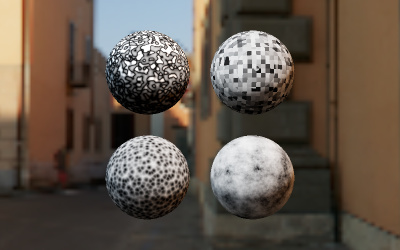
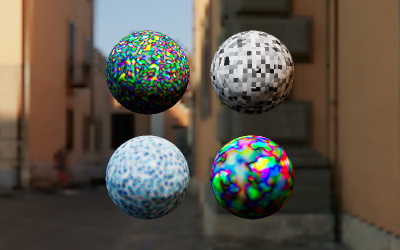
ShaderNode: MaterialX Procedural functions and overloading support (#24699)
* move lib to parent folder

* Added overloading support

* Added convert()

* Added MaterialX Procedural functions

* update example

Changed region(s): [[0.51, 0.532, 0.75, 0.896], [0.24, 0.532, 0.48, 0.868], [0.24, 0.112, 0.48, 0.42]]

diff --git a/examples/jsm/nodes/materialx/MaterialXNodes.js b/examples/jsm/nodes/materialx/MaterialXNodes.js
@@ -1,0 +1,55 @@
+import {
+	mx_perlin_noise_float, mx_perlin_noise_vec2, mx_perlin_noise_vec3,
+	mx_worley_noise_float as worley_noise_float, mx_worley_noise_vec2 as worley_noise_vec2, mx_worley_noise_vec3 as worley_noise_vec3,
+	mx_cell_noise_float as cell_noise_float,
+	mx_fractal_noise_float as fractal_noise_float, mx_fractal_noise_vec2 as fractal_noise_vec2, mx_fractal_noise_vec3 as fractal_noise_vec3, mx_fractal_noise_vec4 as fractal_noise_vec4
+} from './lib/mx_noise.js';
+import { mx_hsvtorgb, mx_rgbtohsv } from './lib/mx_hsv.js';
+import { nodeObject, float, vec2, vec4, add, sub, mul, mix, clamp, uv, length, smoothstep, dFdx, dFdy, convert } from '../shadernode/ShaderNodeElements.js';
+
+export const mx_aastep = ( threshold, value ) => {
+
+	threshold = float( threshold );
+	value = float( value );
+
+	const afwidth = mul( length( vec2( dFdx( value ), dFdy( value ) ) ), 0.70710678118654757 );
+
+	return smoothstep( sub( threshold, afwidth ), add( threshold, afwidth ), value );
+
+};
+
+const _ramp = ( a, b, uv, p ) => mix( a, b, clamp( nodeObject( uv )[ p ] ) );
+export const mx_ramplr = ( valuel, valuer, texcoord = uv() ) => _ramp( valuel, valuer, texcoord, 'x' );
+export const mx_ramptb = ( valuet, valueb, texcoord = uv() ) => _ramp( valuet, valueb, texcoord, 'y' );
+
+const _split = ( a, b, center, uv, p ) => mix( a, b, mx_aastep( center, nodeObject( uv )[ p ] ) );
+export const mx_splitlr = ( valuel, valuer, center, texcoord = uv() ) => _split( valuel, valuer, center, texcoord, 'x' );
+export const mx_splittb = ( valuet, valueb, center, texcoord = uv() ) => _split( valuet, valueb, center, texcoord, 'y' );
+
+export const mx_transform_uv = ( uv_scale = 1, uv_offset = 0, uv_geo = uv() ) => add( mul( uv_geo, uv_scale ), uv_offset );
+
+export const mx_noise_float = ( texcoord = uv(), amplitude = 1, pivot = 0 ) => add( mul( amplitude, mx_perlin_noise_float( convert( texcoord, 'vec2|vec3' ) ) ), pivot );
+export const mx_noise_vec2 = ( texcoord = uv(), amplitude = 1, pivot = 0 ) => add( mul( amplitude, mx_perlin_noise_vec2( convert( texcoord, 'vec2|vec3' ) ) ), pivot );
+export const mx_noise_vec3 = ( texcoord = uv(), amplitude = 1, pivot = 0 ) => add( mul( amplitude, mx_perlin_noise_vec3( convert( texcoord, 'vec2|vec3' ) ) ), pivot );
+export const mx_noise_vec4 = ( texcoord = uv(), amplitude = 1, pivot = 0 ) => {
+
+	texcoord = convert( texcoord, 'vec2|vec3' ); // overloading type
+
+	const noise_vec4 = vec4( mx_perlin_noise_vec3( texcoord ), mx_perlin_noise_float( add( texcoord, vec2( 19, 73 ) ) ) );
+
+	return add( mul( amplitude, noise_vec4 ), pivot );
+
+};
+
+export const mx_worley_noise_float = ( texcoord = uv(), jitter = 1 ) => worley_noise_float( convert( texcoord, 'vec2|vec3' ), jitter, 1 );
+export const mx_worley_noise_vec2 = ( texcoord = uv(), jitter = 1 ) => worley_noise_vec2( convert( texcoord, 'vec2|vec3' ), jitter, 1 );
+export const mx_worley_noise_vec3 = ( texcoord = uv(), jitter = 1 ) => worley_noise_vec3( convert( texcoord, 'vec2|vec3' ), jitter, 1 );
+
+export const mx_cell_noise_float = ( texcoord = uv() ) => cell_noise_float( convert( texcoord, 'vec2|vec3' ) );
+
+export const mx_fractal_noise_float = ( position = uv(), octaves = 3, lacunarity = 2, diminish = .5, amplitude = 1 ) => mul( fractal_noise_float( position, octaves, lacunarity, diminish ), amplitude );
+export const mx_fractal_noise_vec2 = ( position = uv(), octaves = 3, lacunarity = 2, diminish = .5, amplitude = 1 ) => mul( fractal_noise_vec2( position, octaves, lacunarity, diminish ), amplitude );
+export const mx_fractal_noise_vec3 = ( position = uv(), octaves = 3, lacunarity = 2, diminish = .5, amplitude = 1 ) => mul( fractal_noise_vec3( position, octaves, lacunarity, diminish ), amplitude );
+export const mx_fractal_noise_vec4 = ( position = uv(), octaves = 3, lacunarity = 2, diminish = .5, amplitude = 1 ) => mul( fractal_noise_vec4( position, octaves, lacunarity, diminish ), amplitude );
+
+export { mx_hsvtorgb, mx_rgbtohsv };

diff --git a/examples/jsm/nodes/materialx/lib/mx_noise.js b/examples/jsm/nodes/materialx/lib/mx_noise.js
@@ -1,4 +1,4 @@
-import { code, fn } from '../../../Nodes.js';
+import { code, fn } from '../../Nodes.js';
 
 // Original shader code from:
 // https://github.com/AcademySoftwareFoundation/MaterialX/blob/main/libraries/stdlib/genglsl/lib/mx_noise.glsl
@@ -601,7 +601,17 @@ vec3 mx_worley_noise_vec3(vec3 p, float jitter, int metric)
 
 const includes = [ mx_noise ];
 
-export const mx_perlin_noise_float = fn( 'float mx_perlin_noise_float( vec3 p )', includes );
+export const mx_perlin_noise_float = fn( 'float mx_perlin_noise_float( any p )', includes );
+export const mx_perlin_noise_vec2 = fn( 'vec2 mx_perlin_noise_vec2( any p )', includes );
+export const mx_perlin_noise_vec3 = fn( 'vec3 mx_perlin_noise_vec3( any p )', includes );
+
 export const mx_cell_noise_float = fn( 'float mx_cell_noise_float( vec3 p )', includes );
-export const mx_worley_noise_float = fn( 'float mx_worley_noise_float( vec3 p, float jitter, int metric )', includes );
+
+export const mx_worley_noise_float = fn( 'float mx_worley_noise_float( any p, float jitter, int metric )', includes );
+export const mx_worley_noise_vec2 = fn( 'float mx_worley_noise_vec2( any p, float jitter, int metric )', includes );
+export const mx_worley_noise_vec3 = fn( 'float mx_worley_noise_vec3( any p, float jitter, int metric )', includes );
+
 export const mx_fractal_noise_float = fn( 'float mx_fractal_noise_float( vec3 p, int octaves, float lacunarity, float diminish )', includes );
+export const mx_fractal_noise_vec2 = fn( 'float mx_fractal_noise_vec2( vec3 p, int octaves, float lacunarity, float diminish )', includes );
+export const mx_fractal_noise_vec3 = fn( 'float mx_fractal_noise_vec3( vec3 p, int octaves, float lacunarity, float diminish )', includes );
+export const mx_fractal_noise_vec4 = fn( 'float mx_fractal_noise_vec4( vec3 p, int octaves, float lacunarity, float diminish )', includes );

diff --git a/examples/webgl_nodes_materialx_noise.html b/examples/webgl_nodes_materialx_noise.html
@@ -28,14 +28,7 @@
 		<script type="module">
 
 			import * as THREE from 'three';
-			import { MeshPhysicalNodeMaterial, add, mul, normalWorld, clamp, timerLocal } from 'three/nodes';
-
-			import {
-				mx_perlin_noise_float,
-				mx_cell_noise_float,
-				mx_worley_noise_float,
-				mx_fractal_noise_float
-			} from 'three/addons/nodes/materialx/functions/lib/mx_noise.js';
+			import { MeshPhysicalNodeMaterial, add, mul, normalWorld, timerLocal, mx_noise_vec3, mx_worley_noise_vec3, mx_cell_noise_float, mx_fractal_noise_vec3 } from 'three/nodes';
 
 			import { nodeFrame } from 'three/addons/renderers/webgl/nodes/WebGLNodes.js';
 
@@ -80,7 +73,7 @@
 							// left top
 
 							let material = new MeshPhysicalNodeMaterial();
-							material.colorNode = mx_perlin_noise_float( customUV );
+							material.colorNode = mx_noise_vec3( customUV );
 
 							let mesh = new THREE.Mesh( geometry, material );
 							mesh.position.x = - 100;
@@ -100,7 +93,7 @@
 							// left bottom
 
 							material = new MeshPhysicalNodeMaterial();
-							material.colorNode = mx_worley_noise_float( customUV, 1, 1 );
+							material.colorNode = mx_worley_noise_vec3( customUV );
 
 							mesh = new THREE.Mesh( geometry, material );
 							mesh.position.x = - 100;
@@ -110,7 +103,7 @@
 							// right bottom
 
 							material = new MeshPhysicalNodeMaterial();
-							material.colorNode = clamp( mul( add( mx_fractal_noise_float( mul( customUV, .2 ), 7, 2, .7 ), 1 ), .5 ) );
+							material.colorNode = mx_fractal_noise_vec3( mul( customUV, .2 ) );
 
 							mesh = new THREE.Mesh( geometry, material );
 							mesh.position.x = 100;

diff --git a/examples/jsm/nodes/utils/ConvertNode.js b/examples/jsm/nodes/utils/ConvertNode.js
@@ -11,31 +11,32 @@ class ConvertNode extends Node {
 
 	}
 
-	getNodeType( /*builder*/ ) {
+	getNodeType( builder ) {
 
-		return this.convertTo;
+		const requestType = this.node.getNodeType( builder );
+
+		let convertTo = null;
+
+		for ( const overloadingType of this.convertTo.split( '|' ) ) {
+
+			if ( convertTo === null || builder.getTypeLength( requestType ) === builder.getTypeLength( overloadingType ) ) {
+
+				convertTo = overloadingType;
+
+			}
+
+		}
+
+		return convertTo;
 
 	}
 
 	generate( builder, output ) {
 
-		const convertTo = this.convertTo;
 		const node = this.node;
 		const type = this.getNodeType( builder );
 
-		let snippet = null;
-
-		if ( builder.isReference( convertTo ) === false ) {
-
-			const nodeSnippet = node.build( builder, convertTo );
-
-			snippet = builder.format( nodeSnippet, type, convertTo );
-
-		} else {
-
-			snippet = node.build( builder, convertTo );
-
-		}
+		const snippet = node.build( builder, type );
 
 		return builder.format( snippet, type, output );
 

diff --git a/examples/jsm/nodes/shadernode/ShaderNodeBaseElements.js b/examples/jsm/nodes/shadernode/ShaderNodeBaseElements.js
@@ -116,6 +116,8 @@ export const fn = ( code, includes ) => func( code, includes ).call;
 export const attribute = ( name, nodeType ) => nodeObject( new AttributeNode( name, nodeType ) );
 export const property = ( name, nodeOrType ) => nodeObject( new PropertyNode( name, getConstNodeType( nodeOrType ) ) );
 
+export const convert = ( node, types ) => nodeObject( new ConvertNode( nodeObject( node ), types ) );
+
 export const bypass = nodeProxy( BypassNode );
 export const code = nodeProxy( CodeNode );
 export const context = nodeProxy( ContextNode );

diff --git a/examples/jsm/nodes/Nodes.js b/examples/jsm/nodes/Nodes.js
@@ -114,6 +114,9 @@ export * from './materials/Materials.js';
 // shader node
 export * from './shadernode/ShaderNodeElements.js';
 
+// extensions
+export * from './materialx/MaterialXNodes.js';
+
 // shader stages
 export { defaultShaderStages } from './core/NodeBuilder.js';
 

diff --git a/examples/jsm/nodes/materialx/lib/mx_hsv.js b/examples/jsm/nodes/materialx/lib/mx_hsv.js
@@ -1,4 +1,4 @@
-import { fn } from '../../../Nodes.js';
+import { fn } from '../../Nodes.js';
 
 // Original shader code from:
 // https://github.com/AcademySoftwareFoundation/MaterialX/blob/main/libraries/stdlib/genglsl/lib/mx_hsv.glsl
